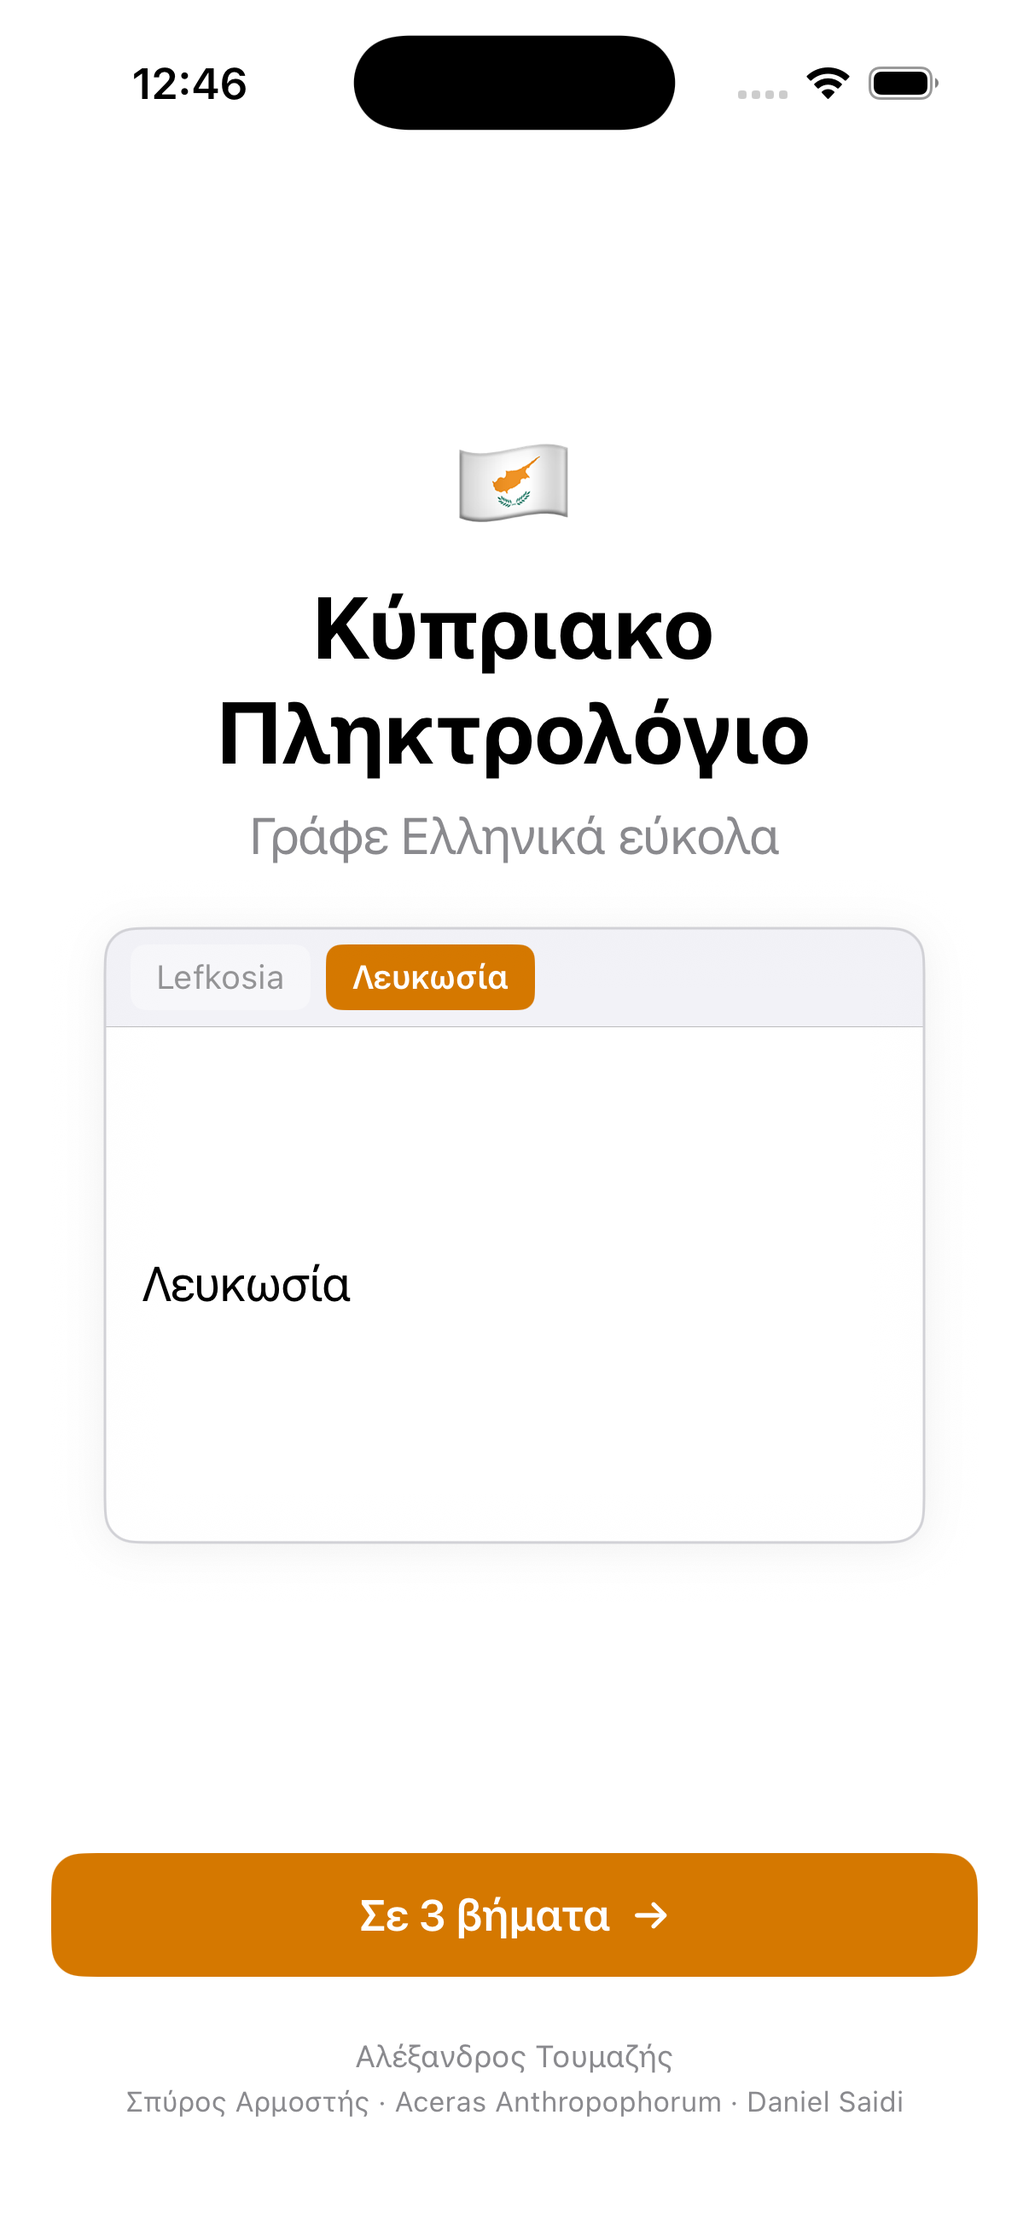
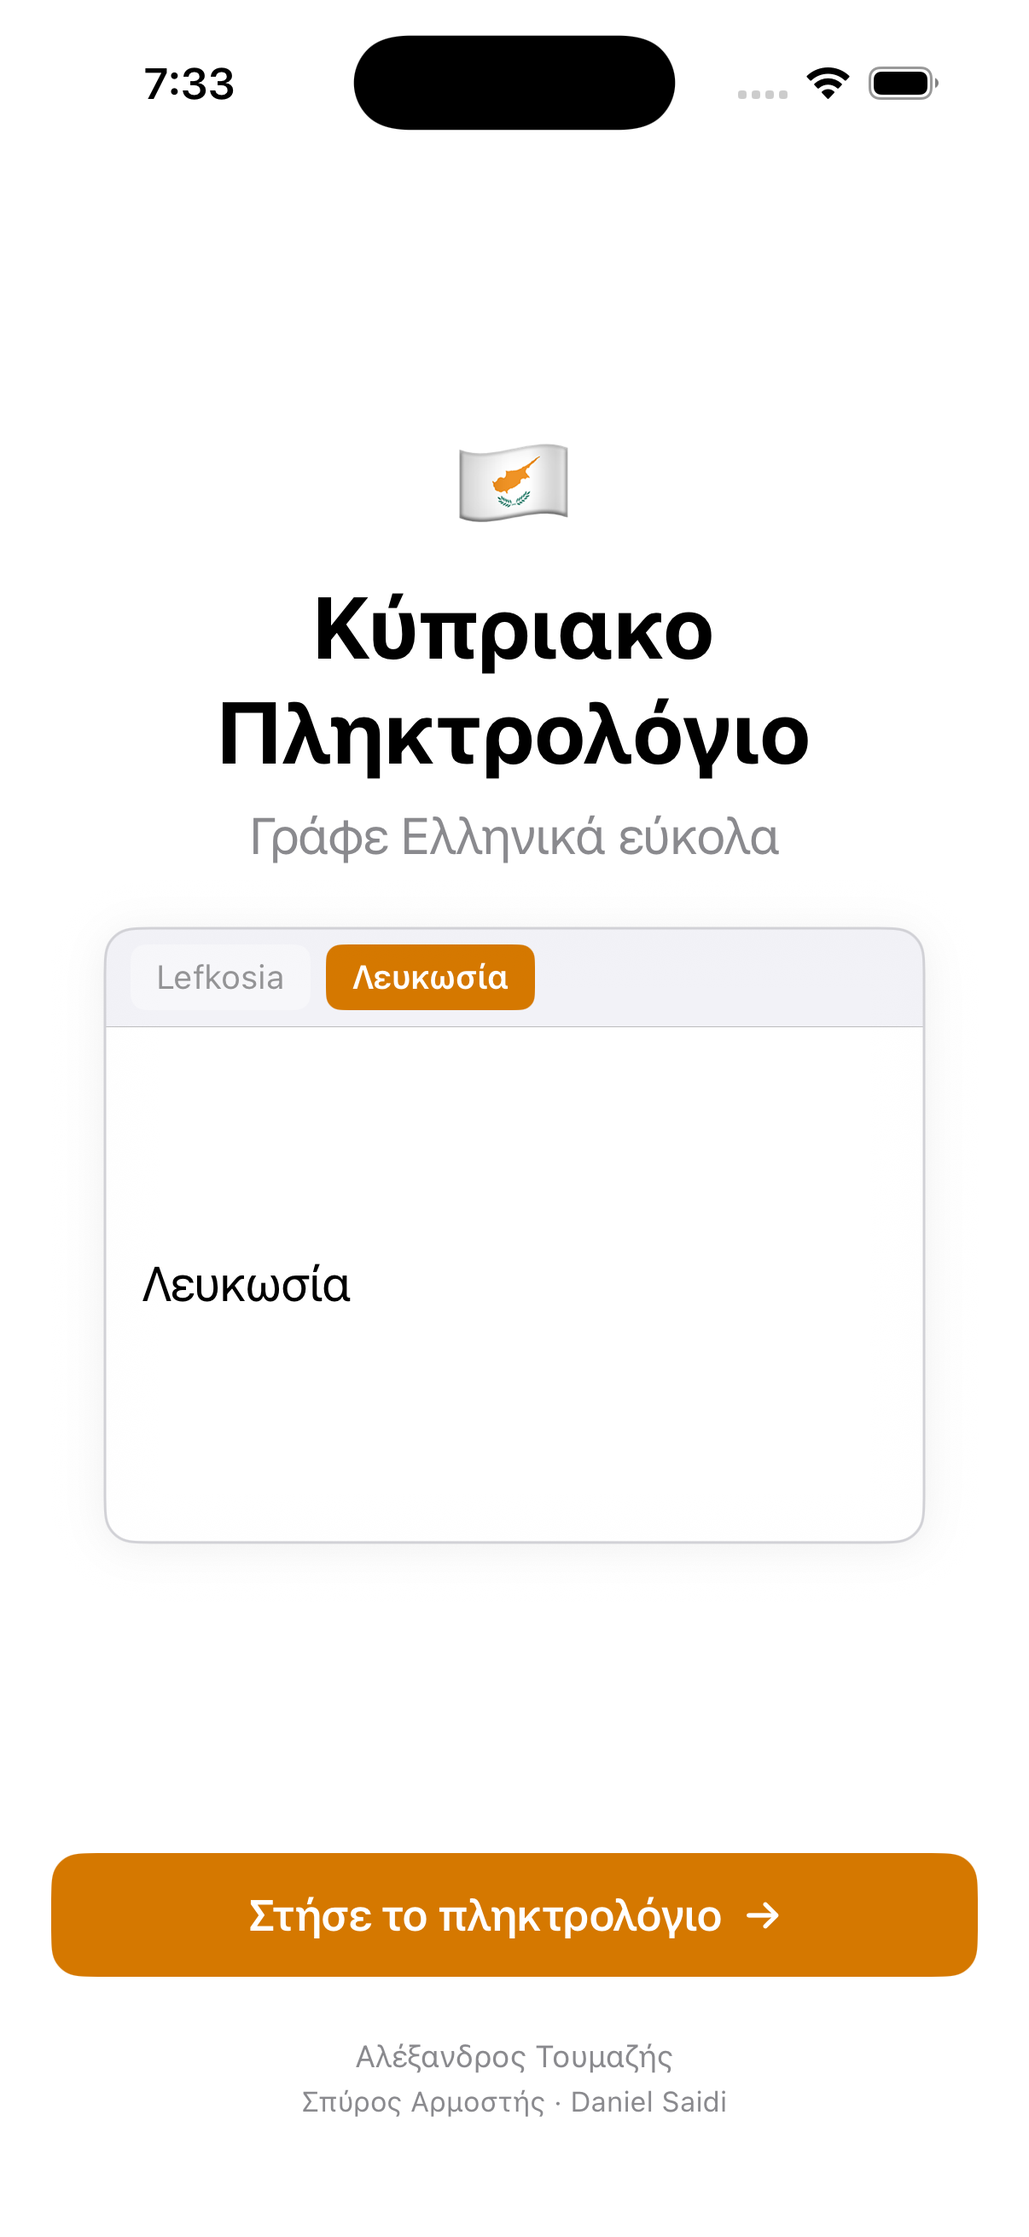
settings link: switch to UIApplication.openSettingsURLString + breadcrumb copy
Replaces the undocumented App-prefs:root=General&path=Keyboard/KEYBOARDS
deep link (broken on iOS 18+, never officially sanctioned for container
apps) with Apple's officially-supported UIApplication.openSettingsURLString.

This matches the convergent pattern across 8+ recently-maintained iOS
keyboards on GitHub (azooKey, wave-ios, MessageApp, handytranslate-iOS,
giellakbd-ios, whisprlocal, HushType, Ascii-Emotes-Keyboard) — none use
deep-link variants anymore.

Trade-off: openSettingsURLString lands on the app's own Settings page
(sparse pre-install) rather than General → Keyboard → Keyboards. To
compensate, the install sheet now shows the navigation breadcrumb the
user must follow once they're in Settings. Same UX pattern as the apps
above.

App-side changes:
  • InstallSheetView.swift: URL → UIApplication.openSettingsURLString,
    with a comment explaining the choice
  • en.lproj: welcome CTA "Install in 3 taps" → "Set up the keyboard";
    install sheet title "In 3 steps" → "Add the keyboard"; steps
    rewritten as the breadcrumb (Open Settings → General/Keyboard/
    Keyboards → Add New Keyboard/Κυπριακά)
  • el.lproj: same restructure in Cypriot dialect, with localised iOS
    Settings labels (Γενικές → Πληκτρολόγιο → Πληκτρολόγια)

Marketing assets re-captured against the new copy:
  • app-store/screenshots/raw/: welcome state on iPhone 17 Pro Max (6.9"),
    Pro (6.3"), 16e (6.1"), iPad Pro 13"; phrase variants on 17 Pro Max
[…]

diff --git a/docs/index.html b/docs/index.html
@@ -863,7 +863,7 @@ footer {
               <span class="replacement">Λευκωσία</span>
             </div>
           </div>
-          <div class="demo-cta">Install in 3 taps  →</div>
+          <div class="demo-cta">Set up the keyboard  →</div>
           <div class="demo-credit">By Alex Toumazis</div>
         </div>
       </div>
@@ -921,8 +921,8 @@ footer {
     </div>
     <div class="shot">
       <div class="shot-frame"><img src="./screenshots/postinstall-en.png" alt="Post install"></div>
-      <div class="shot-label">All set in 3 taps</div>
-      <div class="shot-sub">Try it the moment you install</div>
+      <div class="shot-label">Try it instantly</div>
+      <div class="shot-sub">Demo + tour right after install</div>
     </div>
   </div>
 </section>
@@ -932,29 +932,36 @@ footer {
   <div class="how-grid">
     <div>
       <div class="section-eyebrow">Setup</div>
-      <h2>30 seconds.</h2>
-      <p class="lead">Three taps in Settings, and the keyboard is yours wherever iOS lets you type — Messages, Mail, WhatsApp, Notes, Twitter, Slack.</p>
+      <h2>Under a minute.</h2>
+      <p class="lead">Open the app, head to the Keyboards screen in Settings, add Κυπριακά, and the keyboard is yours wherever iOS lets you type — Messages, Mail, WhatsApp, Notes, Twitter, Slack.</p>
     </div>
     <ol class="steps">
       <li>
         <div class="step-num">1</div>
         <div class="step-content">
-          <h4>Open the app</h4>
-          <p>Tap "Install in 3 taps" — it'll deep-link straight to the Keyboards screen in iOS Settings.</p>
+          <h4>Open the app, tap Set up</h4>
+          <p>The button hands you off to iOS Settings.</p>
         </div>
       </li>
       <li>
         <div class="step-num">2</div>
         <div class="step-content">
-          <h4>Add the keyboard</h4>
-          <p>Tap <code>Add New Keyboard</code> → <code>Κυπριακά</code>.</p>
+          <h4>In Settings: General → Keyboard → Keyboards</h4>
+          <p>Three taps to reach the Keyboards screen.</p>
         </div>
       </li>
       <li>
         <div class="step-num">3</div>
         <div class="step-content">
+          <h4>Add New Keyboard → <code>Κυπριακά</code></h4>
+          <p>Then come back to the app — it'll detect the install and switch to a try-it screen automatically.</p>
+        </div>
+      </li>
+      <li>
+        <div class="step-num">4</div>
+        <div class="step-content">
           <h4>Tap 🌐 anywhere</h4>
-          <p>In any app, tap the globe icon on your keyboard to switch to Cypriot. That's it.</p>
+          <p>In any app, tap the globe icon on your keyboard to switch to Cypriot.</p>
         </div>
       </li>
     </ol>
@@ -1056,7 +1063,7 @@ footer {
               <span class="replacement">Λευκωσία</span>
             </div>
           </div>
-          <div class="demo-cta">Σε 3 βήματα  →</div>
+          <div class="demo-cta">Στήσε το πληκτρολόγιο  →</div>
           <div class="demo-credit">Αλέξανδρος Τουμαζής</div>
         </div>
       </div>
@@ -1102,8 +1109,8 @@ footer {
     </div>
     <div class="shot">
       <div class="shot-frame"><img src="./screenshots/postinstall-el.png" alt="Έτοιμο"></div>
-      <div class="shot-label">Έτοιμο σε 3 βήματα</div>
-      <div class="shot-sub">Δοκίμασε αμέσως</div>
+      <div class="shot-label">Δοκίμασέ το αμέσως</div>
+      <div class="shot-sub">Demo τζ̆αι ξενάγηση μετά την εγκατάσταση</div>
     </div>
     <div class="shot">
       <div class="shot-frame"><img src="./screenshots/ipad-en.png" alt="iPad"></div>
@@ -1117,29 +1124,36 @@ footer {
   <div class="how-grid">
     <div>
       <div class="section-eyebrow">Εγκατάσταση</div>
-      <h2>30 δευτερόλεπτα.</h2>
-      <p class="lead">Τρία βήματα στις Ρυθμίσεις, τζ̆αι το πληκτρολόγιο είναι σου παντού όπου γράφεις iOS — Messages, Mail, WhatsApp, Notes, Twitter, Slack.</p>
+      <h2>Σε ένα λεπτό.</h2>
+      <p class="lead">Άνοιξε την εφαρμογή, πήαινε στην οθόνη Πληκτρολογίων στις Ρυθμίσεις, πρόσθεσε τα Κυπριακά τζ̆αι το πληκτρολόγιο είναι σου παντού όπου γράφεις iOS — Messages, Mail, WhatsApp, Notes, Twitter, Slack.</p>
     </div>
     <ol class="steps">
       <li>
         <div class="step-num">1</div>
         <div class="step-content">
-          <h4>Άνοιξε την εφαρμογή</h4>
-          <p>Πάτα "Σε 3 βήματα" — σε πάει κατευθείαν στις Ρυθμίσεις πληκτρολογίου.</p>
+          <h4>Άνοιξε την εφαρμογή τζ̆αι πάτα "Στήσε το πληκτρολόγιο"</h4>
+          <p>Το κουμπί σε βκάλλει στις iOS Ρυθμίσεις.</p>
         </div>
       </li>
       <li>
         <div class="step-num">2</div>
         <div class="step-content">
-          <h4>Πρόσθεσε το πληκτρολόγιο</h4>
-          <p>Πάτα <code>Add New Keyboard</code> → <code>Κυπριακά</code>.</p>
+          <h4>Στις Ρυθμίσεις: Γενικές → Πληκτρολόγιο → Πληκτρολόγια</h4>
+          <p>Τρία ταπς τζ̆αι είσαι στην οθόνη των πληκτρολογίων.</p>
         </div>
       </li>
       <li>
         <div class="step-num">3</div>
         <div class="step-content">
+          <h4>Προσθήκη νέου πληκτρολογίου → <code>Κυπριακά</code></h4>
+          <p>Έλα μετά πίσω στην εφαρμογή — εν να σου δείξει αυτόματα την οθόνη "Δοκίμασε".</p>
+        </div>
+      </li>
+      <li>
+        <div class="step-num">4</div>
+        <div class="step-content">
           <h4>Πάτα 🌐 οπουδήποτε</h4>
-          <p>Σε όποια εφαρμογή γράφεις, πάτα τη σφαίρα στο πληκτρολόγιο για να αλλάξεις στα Κυπριακά. Αυτό ήταν.</p>
+          <p>Σε όποια εφαρμογή γράφεις, πάτα τη σφαίρα στο πληκτρολόγιο για να αλλάξεις στα Κυπριακά.</p>
         </div>
       </li>
     </ol>

diff --git a/app-store/mockup/index.html b/app-store/mockup/index.html
@@ -495,7 +495,7 @@
         A fresh first-launch experience:
         <ul>
           <li>New welcome screen with a live demo of Greeklish autocorrect.</li>
-          <li>Three-tap install — we deep-link straight to the Keyboards screen.</li>
+          <li>Clearer setup walkthrough — step-by-step path from app to Settings to active keyboard.</li>
           <li>Try-it textfield right after install, plus a tour of σ̆ Cypriot characters and automatic accents.</li>
           <li>Stricter privacy: Hunspell removed, the keyboard now ships with a single optimised dictionary engine. Smaller download, same results.</li>
         </ul>
@@ -525,7 +525,7 @@
         </div>
         <div class="frame-card">
           <div class="iphone-frame"><img src="../screenshots/raw/postinstall-en-iphone17promax.png" alt=""></div>
-          <div class="frame-caption">All set in 3 taps</div>
+          <div class="frame-caption">Try it instantly</div>
           <div class="frame-caption-sub">Post install state</div>
         </div>
       </div>
@@ -641,7 +641,7 @@
         Ολοκαίνουργια εμπειρία πρώτης χρήσης:
         <ul>
           <li>Νέα οθόνη καλωσορίσματος με ζωντανό demo του Greeklish autocorrect.</li>
-          <li>Εγκατάσταση σε 3 βήματα — σε πάμε κατευθείαν στην οθόνη Πληκτρολογίων.</li>
+          <li>Πιο καθαρή ξενάγηση εγκατάστασης — βήμα-βήμα από την εφαρμογή στις Ρυθμίσεις τζ̆αι στο ενεργό πληκτρολόγιο.</li>
           <li>Πεδίο για δοκιμή αμέσως μετά την εγκατάσταση, τζ̆αι ξενάγηση στους Κυπριακούς χαρακτήρες σ̆.</li>
           <li>Πιο αυστηρή ιδιωτικότητα: αφαιρέθηκε το Hunspell, το πληκτρολόγιο τρέχει τώρα με μία ενιαία βελτιστοποιημένη μηχανή λεξικού.</li>
         </ul>

diff --git a/Cypriot Keyboard/Onboarding/InstallSheetView.swift b/Cypriot Keyboard/Onboarding/InstallSheetView.swift
@@ -26,7 +26,14 @@ struct InstallSheetView: View {
             Spacer()
 
             PrimaryCTAButton(titleKey: "onboarding.install.cta") {
-                if let url = URL(string: "App-prefs:root=General&path=Keyboard/KEYBOARDS") {
+                // Apple's UIApplication.openSettingsURLString is the only
+                // sanctioned and future-proof way to launch Settings from a
+                // container app. It lands on the app's own Settings page,
+                // so the install sheet shows the breadcrumb the user must
+                // follow from there. The undocumented App-prefs:root=… deep
+                // links were broken on iOS 18+ and never officially supported
+                // for container apps anyway. (See QA1924.)
+                if let url = URL(string: UIApplication.openSettingsURLString) {
                     UIApplication.shared.open(url)
                 }
             }

diff --git a/app-store/screenshots/raw/README.md b/app-store/screenshots/raw/README.md
@@ -23,22 +23,20 @@ App Store Connect groups by display size class. Apple downsamples for smaller cl
 | iPhone 16e / 17      | 1170×2532     | 6.1"                    |
 | iPad Pro 13" (M4)    | 2064×2752     | iPad 13"                |
 
-## Current contents (captured 2026-05-07)
+## Current contents (captured 2026-05-10)
 
-All captured at the "hold replaced" phase of the demo loop animation (clean frame, no transition overlap, with the new opacity-stacking demo loop).
+All captured at the "hold replaced" phase of the demo loop animation (clean frame, no transition overlap), against the v1.9 onboarding with the **new copy**: hero CTA "Set up the keyboard →" (was "Install in 3 taps"), install sheet "Add the keyboard" with breadcrumb steps, and `UIApplication.openSettingsURLString` as the underlying deep link. **Re-capture if the install copy changes again** — the previous v1.8/v1.9-pre captures had the old "Install in 3 taps" text and are obsolete.
 
 | File                                          | State        | Locale | Device                | Demo phrase shown |
 |-----------------------------------------------|--------------|--------|-----------------------|-------------------|
-| `welcome-en-iphone17promax.png`               | Welcome      | en     | iPhone 17 Pro (6.3")  | Lefkosia → Λευκωσία |
+| `welcome-en-iphone17promax.png`               | Welcome      | en     | iPhone 17 Pro Max (6.9") | Lefkosia → Λευκωσία |
 | `welcome-el-iphone17promax.png`               | Welcome      | el     | iPhone 17 Pro Max (6.9") | Lefkosia → Λευκωσία |
-| `welcome-en-iphone17promax-je.png`            | Welcome      | en     | iPhone 17 Pro (6.3")  | je → τζ̆αι |
-| `welcome-en-iphone17promax-allous.png`        | Welcome      | en     | iPhone 17 Pro (6.3")  | pe je stous allous → πε τζ̆αι στους άλλους |
+| `welcome-en-iphone17promax-je.png`            | Welcome      | en     | iPhone 17 Pro Max (6.9") | je → τζ̆αι |
+| `welcome-en-iphone17promax-allous.png`        | Welcome      | en     | iPhone 17 Pro Max (6.9") | pe je stous allous → πε τζ̆αι στους άλλους |
 | `welcome-en-iphone17pro.png`                  | Welcome      | en     | iPhone 17 Pro (6.3")  | Lefkosia |
 | `welcome-el-iphone17pro.png`                  | Welcome      | el     | iPhone 17 Pro (6.3")  | Lefkosia |
 | `welcome-en-iphone16e.png`                    | Welcome      | en     | iPhone 16e (6.1")     | Lefkosia |
 | `welcome-el-iphone16e.png`                    | Welcome      | el     | iPhone 16e (6.1")     | Lefkosia |
-| `postinstall-en-iphone17promax.png`           | Post-install | en     | iPhone 17 Pro Max (6.9") | Lefkosia |
-| `postinstall-el-iphone17promax.png`           | Post-install | el     | iPhone 17 Pro Max (6.9") | Lefkosia |
 | `postinstall-en-iphone17.png`                 | Post-install | en     | iPhone 17 (6.1")      | Lefkosia |
 | `postinstall-el-iphone17.png`                 | Post-install | el     | iPhone 17 (6.1")      | Lefkosia |
 | `welcome-en-ipadpro13.png`                    | Welcome      | en     | iPad Pro 13" (M4)     | Lefkosia |
@@ -68,7 +66,7 @@ To capture the **post-install** state, the Cypriot keyboard must be added in iOS
 
 ## Still missing
 
-- **iPhone 17 Pro Max (6.9") en welcome captures** — the sim has the keyboard installed (was needed for the post-install captures), so it can't show welcome state again without an "Erase All Content and Settings". The en welcome variants currently filed under `iphone17promax` are actually iPhone 17 Pro (6.3") — text-correct (τζ̆αι, credits without Aceras), just lower resolution. Re-capture at 6.9" by erasing the Pro Max sim, then re-add the keyboard for post-install captures again.
-- **iPad Pro 13" post-install** — needs the Cypriot keyboard added to the iPad sim manually (simctl can't tap UI). Add it (Settings → General → Keyboard → Keyboards → Add → Κυπριακά) on the iPad sim, then re-launch and capture.
-- **Install sheet open** state — needs a tap mid-launch. Easiest by hand in the simulator: launch app, tap "Install in 3 taps" CTA, then `xcrun simctl io booted screenshot ...` from another terminal.
+- **iPhone 17 Pro Max (6.9") post-install captures** — the sim was erased to capture welcome state, so it no longer has the Cypriot keyboard installed. Re-add the keyboard manually (Settings → General → Keyboard → Keyboards → Add → Κυπριακά) on that sim, then re-launch and capture for both en and el.
+- **iPad Pro 13" post-install** — needs the Cypriot keyboard added to the iPad sim manually (simctl can't tap UI).
+- **Install sheet open state** — needs a tap mid-launch (simctl has no tap subcommand). Easiest by hand: launch app in the simulator, tap "Set up the keyboard" CTA to open the sheet, then run `xcrun simctl io booted screenshot ...` from another terminal.
 - **el variants of the `je` and `allous` phrase carousel** — only `Lefkosia` was captured in el. The other two are en only.

diff --git a/app-store/copy/el.md b/app-store/copy/el.md
@@ -66,8 +66,8 @@ greek,greeklish,ελληνικά,κύπρος,κυπριακά,τόνοι,αρμ
 ```
 Ολοκαίνουργια εμπειρία πρώτης χρήσης:
 
-  • Νέα οθόνη καλωσορίσματος με ζωντανό demo του Greeklish autocorrect.
-  • Εγκατάσταση σε 3 βήματα — σε πάμε κατευθείαν στην οθόνη Πληκτρολογίων.
+  • Νέα οθόνη καλωσορίσματος με ζωντανό demo που εναλλάσσει Greeklish, Κυπριακή διάλεκτο τζ̆αι ολόκληρες φράσεις.
+  • Πιο καθαρή ξενάγηση εγκατάστασης — βήμα-βήμα από την εφαρμογή στις Ρυθμίσεις τζ̆αι στο ενεργό πληκτρολόγιο.
   • Πεδίο για δοκιμή αμέσως μετά την εγκατάσταση, τζ̆αι ξενάγηση στους Κυπριακούς χαρακτήρες σ̆ τζ̆αι στους αυτόματους τόνους.
   • Πιο αυστηρή ιδιωτικότητα: αφαιρέθηκε το Hunspell, το πληκτρολόγιο τρέχει τώρα με μία ενιαία βελτιστοποιημένη μηχανή λεξικού. Μικρότερο download, ίδιο αποτέλεσμα.
 ```
